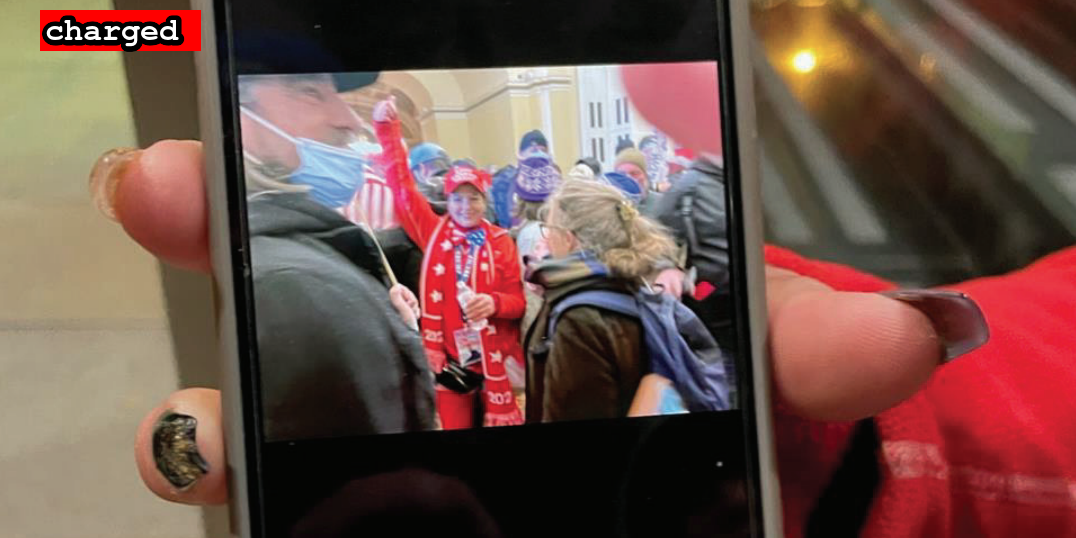
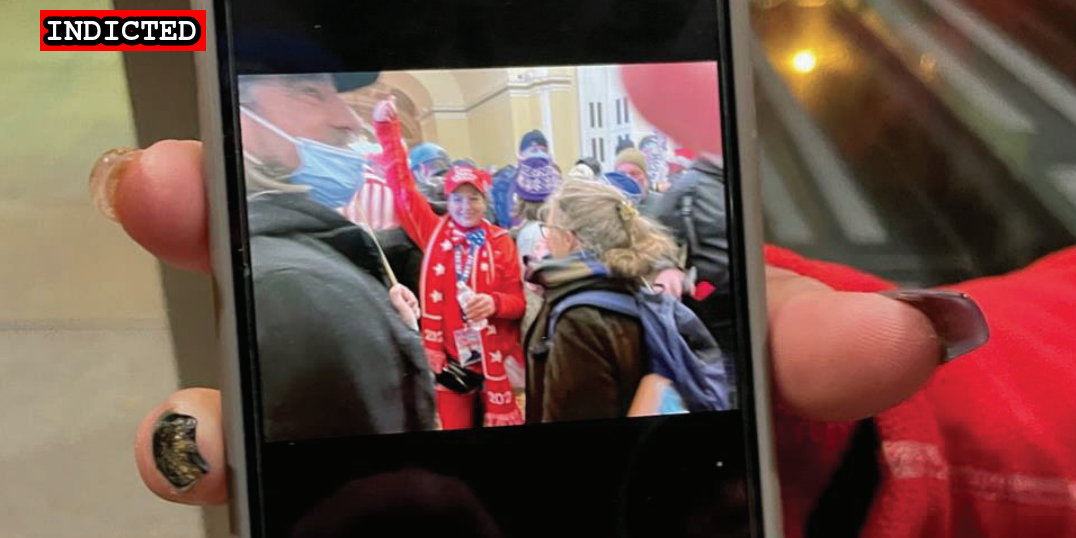
More indictments

Changed region(s): [[0.0307, 0.0297, 0.2147, 0.0892]]

diff --git a/commands/suspect-import.ts b/commands/suspect-import.ts
@@ -288,7 +288,8 @@ const addData = (nameSet:Set<string>, firstName, lastName, dateString, links, re
 
       if (type == "Indictment") {
         suspect.status = "Indicted"
-        execSync(`yarn suspect preview -f ${suspect.image} -s ${suspect.status}`)
+        const previewImage = suspect.image.replace("/images/preview/", "")
+        execSync(`yarn suspect preview -f ${previewImage} -s ${suspect.status}`)
       }
 
       updateSuspect(suspect)

diff --git a/docs/_suspects/patrick-montgomery.md b/docs/_suspects/patrick-montgomery.md
@@ -1,9 +1,9 @@
 ---
 name: Patrick Montgomery
 lastName: Montgomery
-aka:
+aka: 
 residence: Colorado
-status: Charged
+status: Indicted
 date: 2021-01-17
 age: 48
 occupation: Business Owner
@@ -11,9 +11,9 @@ affiliations: undefined
 jurisdiction: Federal
 image: /images/preview/patrick-montgomery.jpg
 suspect: patrick-montgomery.jpg
-booking:
-courtroom:
-courthouse:
+booking: 
+courtroom: 
+courthouse: 
 quote: "We stormed the Senate ... opened those Chamber door for Transparency!"
 title: Patrick Montgomery charged on January 17th, 2021
 description: Click for latest case details. Suspects innocent until proven guilty.
@@ -24,3 +24,4 @@ published: true
 - [News Report](https://www.denverpost.com/2021/01/19/us-capitol-riot-colorado-arrest-patrick-montgomery/)
 - [Complaint](https://www.justice.gov/opa/page/file/1357711/download)
 - [Statement of Facts](https://www.justice.gov/opa/page/file/1357706/download)
+- [Indictment](https://www.justice.gov/usao-dc/case-multi-defendant/file/1364766/download)

diff --git a/docs/_suspects/guy-reffitt.md b/docs/_suspects/guy-reffitt.md
@@ -1,19 +1,19 @@
 ---
 name: Guy Reffitt
 lastName: Reffitt
-aka:
+aka: 
 residence: Texas
 status: Indicted
 date: 2021-01-15
 age: 48
-occupation:
+occupation: 
 affiliations: Three Percenters, Texas Freedom Force
 jurisdiction: Federal
 image: /images/preview/063.jpg
 suspect: 063.jpg
-booking:
-courtroom:
-courthouse:
+booking: 
+courtroom: 
+courthouse: 
 quote: "If you turn me in, you’re a traitor and you know what happens to traitors ... traitors get shot"
 title: Guy Reffitt charged on January 15, 2021
 description: Click for latest case details. Suspects considered innocent until proven guilty.
@@ -24,3 +24,4 @@ published: true
 - [News Report](https://nypost.com/2021/01/18/rioter-guy-reffitt-threatened-to-shoot-kids-if-they-talked-to-fbi/)
 - [Complaint](https://www.justice.gov/opa/page/file/1356126/download)
 - [Statement of Facts](https://www.justice.gov/opa/page/file/1356111/download)
+- [Indictment](https://www.justice.gov/usao-dc/case-multi-defendant/file/1364771/download)

diff --git a/docs/_suspects/christopher-alberts.md b/docs/_suspects/christopher-alberts.md
@@ -1,20 +1,20 @@
 ---
 name: Christopher Alberts
 lastName: Alberts
-aka:
+aka: 
 residence: Maryland
-status: Charged
+status: Indicted
 date: 2021-01-07
 age: 33
-occupation:
+occupation: 
 affiliations: undefined
 jurisdiction: Federal
 image: /images/preview/arrest.jpg
 suspect: arrest.jpg
-booking:
-courtroom:
-courthouse:
-quote:
+booking: 
+courtroom: 
+courthouse: 
+quote: 
 title: Christopher Alberts charged on January 7th, 2021
 description: Click for latest case details. Suspects innocent until proven guilty.
 author: seditiontrack
@@ -25,3 +25,4 @@ published: true
 - [DOJ Press Release](https://www.justice.gov/opa/pr/thirteen-charged-federal-court-following-riot-united-states-capitol)
 - [Complaint](https://www.justice.gov/opa/press-release/file/1351681/download)
 - [Statement of Facts](https://www.justice.gov/opa/press-release/file/1351686/download)
+- [Indictment](https://www.justice.gov/usao-dc/case-multi-defendant/file/1364751/download)

diff --git a/docs/_suspects/hunter-ehmke.md b/docs/_suspects/hunter-ehmke.md
@@ -1,20 +1,20 @@
 ---
 name: Hunter Ehmke
 lastName: Ehmke
-aka:
+aka: 
 residence: California
-status: Charged
+status: Indicted
 date: 2021-01-13
 age: 20
-occupation:
+occupation: 
 affiliations: undefined
 jurisdiction: Federal
 image: /images/preview/arrest.jpg
 suspect: arrest.jpg
-booking:
-courtroom:
-courthouse:
-quote:
+booking: 
+courtroom: 
+courthouse: 
+quote: 
 title: Hunter Ehmke charged on January 13th, 2021
 description: Click for latest case details. Suspects innocent until proven guilty.
 author: seditiontrack
@@ -25,3 +25,4 @@ published: true
 - [DOJ Press Release](https://www.justice.gov/usao-dc/pr/california-man-arrested-and-charged-federal-charges-following-events-united-states)
 - [Complaint](https://www.justice.gov/opa/page/file/1353886/download)
 - [Statement of Facts](https://www.justice.gov/opa/page/file/1353881/download)
+- [Indictment](https://www.justice.gov/usao-dc/case-multi-defendant/file/1364761/download)

diff --git a/docs/_suspects/thomas-baranyi.md b/docs/_suspects/thomas-baranyi.md
@@ -1,9 +1,9 @@
 ---
 name: Thomas Baranyi
 lastName: Baranyi
-aka:
+aka: 
 residence: New Jersey
-status: Charged
+status: Indicted
 date: 2021-01-12
 age: 28
 occupation: Peace Corps
@@ -11,9 +11,9 @@ affiliations: undefined
 jurisdiction: Federal
 image: /images/preview/012.jpg
 suspect: 012.jpg
-booking:
-courtroom:
-courthouse:
+booking: 
+courtroom: 
+courthouse: 
 quote: "It could have been me, but she went in first"
 title: Thomas Baranyi charged on January 12, 2021
 description: Click for latest case details. Suspects considered innocent until proven guilty.
@@ -25,3 +25,4 @@ published: true
 - [Self Incrimination](https://twitter.com/shaunking/status/1347257804244082695?s=20)
 - [Statement of Facts](https://www.justice.gov/opa/page/file/1355731/download)
 - [Complaint](https://www.justice.gov/opa/page/file/1356466/download)
+- [Indictment](https://www.justice.gov/usao-dc/case-multi-defendant/file/1364756/download)

diff --git a/docs/_suspects/rasha-abual-ragheb.md b/docs/_suspects/rasha-abual-ragheb.md
@@ -1,20 +1,20 @@
 ---
 name: Rasha Abual-Ragheb
 lastName: Abual-Ragheb
-aka:
+aka: 
 residence: New Jersey
-status: Charged
+status: Indicted
 date: 2021-01-19
 age: 40
-occupation:
+occupation: 
 affiliations: Three Percenter, American Patriots 3%
 jurisdiction: Federal
 image: /images/preview/119.png
 suspect: 119.png
-booking:
-courtroom:
-courthouse:
-quote:
+booking: 
+courtroom: 
+courthouse: 
+quote: 
 title: Rash Abual-Ragheb charged on January 19, 2021
 description: Click for latest case details. Suspects innocent until proven guilty.
 author: seditiontrack
@@ -24,3 +24,4 @@ published: true
 - [News Report](https://www.the961.com/lebanese-charged-us-capitol/)
 - [Complaint](https://www.justice.gov/opa/page/file/1357081/download)
 - [Statement of Facts](https://www.justice.gov/opa/page/file/1357076/download)
+- [Indictment](https://www.justice.gov/usao-dc/case-multi-defendant/file/1364746/download)
